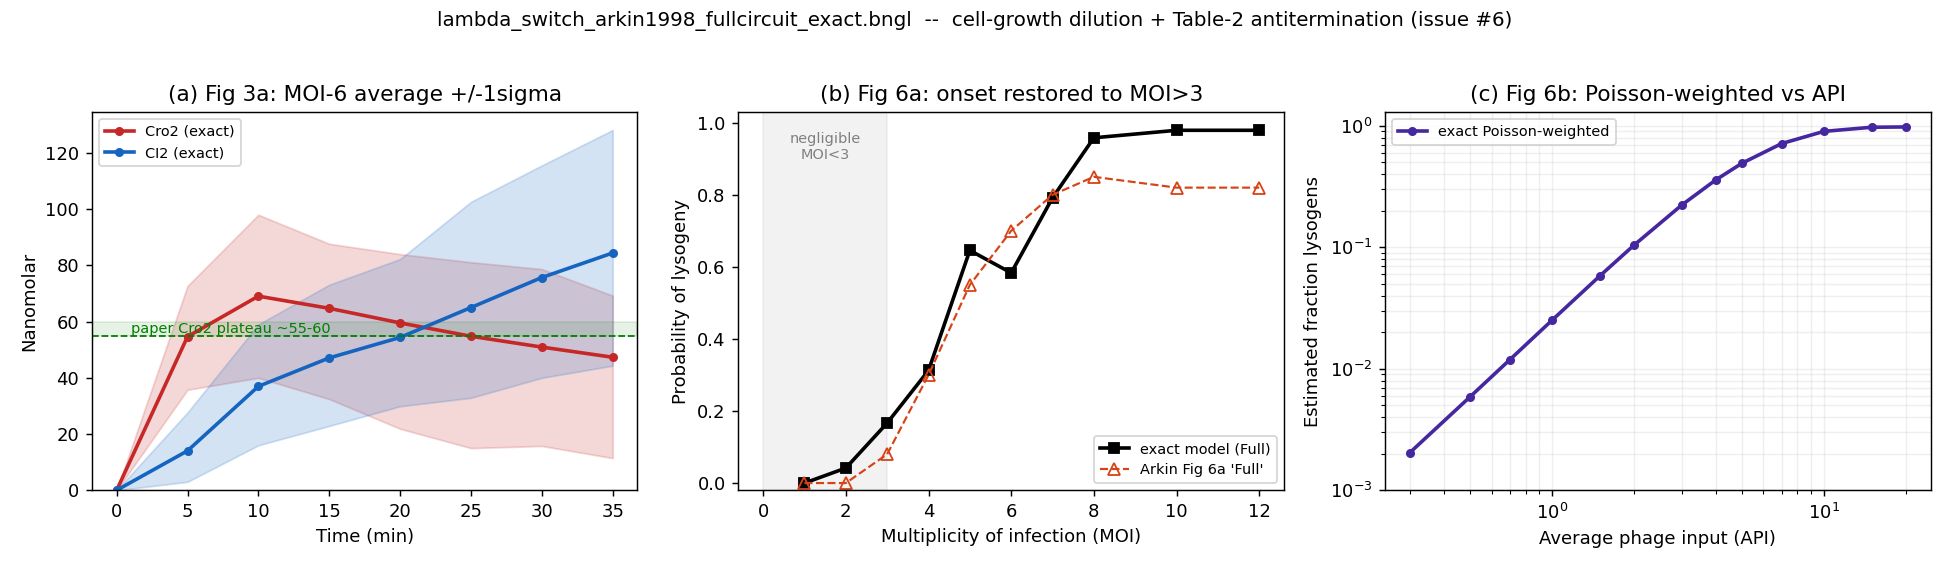
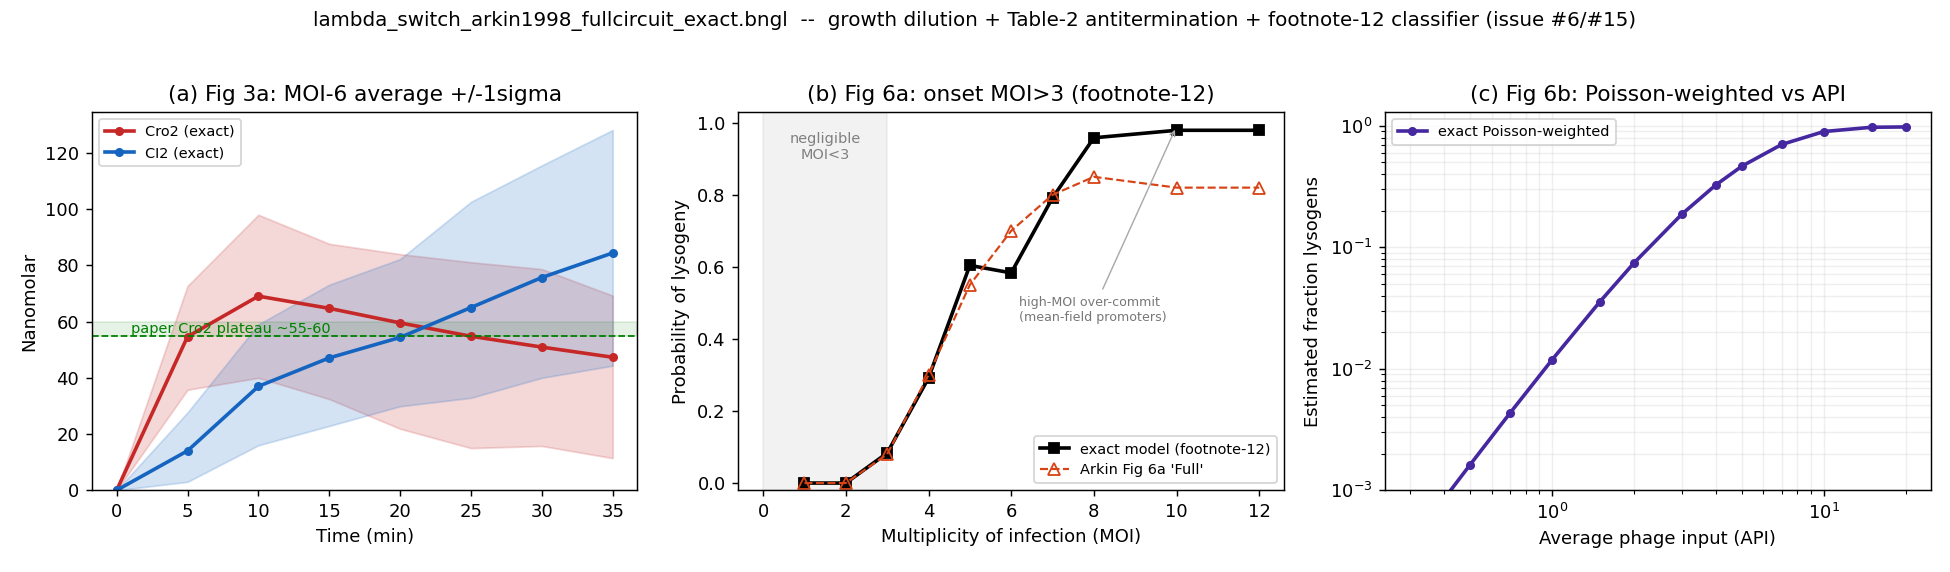
lambda_switch_arkin1998: implement the full footnote-12 lysogeny classifier
The Fig-6a low-MOI onset ran high (MOI 3 ~0.17 vs paper ~0.08). Diagnosis: the
driver used only condition (ii) of Arkin's footnote 12 ([CI2]>[Cro2] at 35 min).
Adding condition (i) -- P_RE was activated, i.e. the total open-complex rate
A_PRE()*MOI reached >= 1 open complex / 2 min over a contiguous 4-min window --
removes cells that reach CI2>Cro2 without a productive P_RE burst:

  MOI          3     4     5     6
  CI2>Cro2   0.21  0.29  0.60  0.71
  footnote12 0.08  0.29  0.60  0.58   <- lands the onset on the paper
  paper Full 0.08  0.30  0.55  0.70

This is a classifier fix in run_fullcircuit.py only -- the .bngl model is
unchanged (its header already described the full footnote-12). classify() now
takes the CII trajectory + MOI; the Fig-6 sweep samples 36 points (~1 min) so the
4-min activation window is resolved. Regenerated fullcircuit_exact_fig6.npz and
the verification figure; Fig-3a (classifier-independent) is unchanged.

The high-MOI tail still over-commits (~1.0 vs paper ~0.82): the network-free
A_X()*MOI initiation uses the mean-field Shea-Ackers rate and loses the per-genome
promoter-state bursting that lets some high-MOI cells escape to lysis -- a
structural limit of the reduced-order formulation (tracked in #15), and far from
the biologically critical decision boundary.

diff --git a/models/lambda_switch_arkin1998/run_fullcircuit.py b/models/lambda_switch_arkin1998/run_fullcircuit.py
@@ -15,12 +15,18 @@ NFsim + RuleMonkey). Run with a Python that has bngsim + numpy, e.g.
 Units: V_ref=1.66054e-15 L makes 1 molecule ~ 1 nM, so dimer COUNTS are the nM
 concentrations on Arkin's axes.
 
-Lysogeny classifier (Arkin footnote 12, p.[phone redacted]): a cell commits to lysogeny when
-free-CII production activated P_RE and [CI2] > [Cro2] at the end of the 35-min cell
-cycle. Operationally per run: LYSOGENIC <=> CI2_dimer > Cro2_dimer at t=35 min (the
-footnote states this end-state test is itself the indication that P_RE activation
-locked in the CI feedback loop). A stricter "regime" cross-check also requires CI2 to
-be in the lysogenic band (CI2 >= 50 nM).
+Lysogeny classifier (Arkin footnote 12, p.[phone redacted]): a cell commits to lysogeny iff
+BOTH (i) free-CII production activated P_RE -- operationally, the total P_RE open-complex
+rate A_PRE()*MOI reached >= 1 open complex / 2 min over a contiguous 4-min window -- AND
+(ii) [CI2] > [Cro2] at the end of the 35-min cell cycle. Both conditions are evaluated
+per seed (see classify()); condition (i) needs the free-CII trajectory at ~1-min
+resolution, so the Fig-6 sweep samples 36 points. Requiring (i) matters at low MOI,
+where it removes cells that reach CI2>Cro2 without a productive P_RE burst -- it lowers
+the Fig-6a onset (e.g. MOI 3 ~0.2 -> ~0.08, matching the paper) while leaving MOI>=4
+essentially unchanged. A stricter "regime" cross-check also requires CI2 >= 50 nM.
+NOTE: at high MOI the model still over-commits vs the paper (~1.0 vs ~0.82) because the
+network-free A_X()*MOI initiation uses the mean-field Shea-Ackers rate and loses the
+per-genome promoter-state bursting that lets some high-MOI cells escape to lysis.
 """
 import os
 import re
@@ -46,6 +52,39 @@ T_END = 2100.0                      # 35-min cell cycle
 # observables carried by the model (see the .bngl observables block)
 TRAJ = ["CI2_dimer", "Cro2_dimer", "Obs_CII", "CII_total", "CIII_tot", "Obs_N",
         "CImon", "Crmon"]
+
+# --- Arkin footnote-12 lysogeny classifier ------------------------------------------
+# A cell is committed to lysogeny iff (i) free-CII production ACTIVATED P_RE -- defined
+# as the total P_RE open-complex rate A_PRE()*MOI reaching >= 1 open complex / 2 min over
+# a contiguous 4-min window -- AND (ii) [CI2] > [Cro2] at the end of the 35-min cycle.
+# A_PRE() is the Table-1 P_RE partition function (same expression as in the .bngl); the
+# total rate over the cell's MOI genome copies is A_PRE()*MOI.
+_RT = 1.9872e-3 * 310.15
+_M2M = 1e-9                              # 1 molecule ~ 1 nM at V_ref -> M/molecule
+_RNAP_M = 30 * _M2M                      # buffered free RNAP = 30 nM
+_PRE_RATE = 1.0 / 120.0                  # 1 open complex / 2 min, in 1/s
+_PRE_WIN_MIN = 4.0                       # contiguous activation window (min)
+
+
+def _A_PRE(cii):
+    """P_RE open-complex rate (1/s) vs free-CII (nM), Table-1 P_RE partition function."""
+    ci = np.asarray(cii) * _M2M
+    w2 = np.exp(9.9 / _RT) * _RNAP_M     # exp(-dG_RE_2/RT), dG_RE_2 = -9.9
+    w3 = np.exp(9.7 / _RT) * ci          # dG_RE_3 = -9.7
+    w4 = np.exp(21.5 / _RT) * ci * _RNAP_M  # dG_RE_4 = -21.5
+    return (w2 * 4e-5 + w4 * 0.015) / (1 + w2 + w3 + w4)
+
+
+def _pre_activated(cii_traj, tvec, moi):
+    """footnote-12 (i): does total P_RE activation A_PRE()*MOI stay >= 1 OC / 2 min over
+    some contiguous 4-min window of the trajectory?"""
+    apre = _A_PRE(cii_traj) * moi
+    dt = (tvec[1] - tvec[0]) / 60.0 if len(tvec) > 1 else _PRE_WIN_MIN
+    w = max(1, int(round(_PRE_WIN_MIN / dt)))
+    if len(apre) < w:
+        return apre.mean() >= _PRE_RATE
+    cs = np.concatenate([[0.0], np.cumsum(apre)])
+    return bool(((cs[w:] - cs[:-w]) / w >= _PRE_RATE).any())
 
 
 def build_xml(moi, tag=None):
@@ -85,12 +124,19 @@ def ensemble(xml, method, n_seeds, n_points=8, seed0=30000):
     return tvec, {o: np.vstack(v) for o, v in stacks.items()}
 
 
-def classify(stacks):
-    """Footnote-12 per-seed lysogeny classification from final-time (t=35min) counts."""
+def classify(stacks, tvec, moi):
+    """Arkin footnote-12 per-seed lysogeny classification: LYSOGENIC iff P_RE activated
+    (i) AND [CI2]>[Cro2] at t=35 min (ii). Needs the CII trajectory (for (i)) at fine
+    time resolution and the MOI (total P_RE rate = A_PRE()*MOI). Also returns the
+    end-state-only fraction (lyso_end) for reference."""
     ci2 = stacks["CI2_dimer"][:, -1]
     cro2 = stacks["Cro2_dimer"][:, -1]
-    lyso = ci2 > cro2
-    return {"lyso": lyso, "regime": lyso & (ci2 >= 50.0), "ci2": ci2, "cro2": cro2}
+    end_switch = ci2 > cro2
+    cii = stacks["Obs_CII"]
+    pre = np.array([_pre_activated(cii[i], tvec, moi) for i in range(cii.shape[0])])
+    lyso = end_switch & pre
+    return {"lyso": lyso, "lyso_end": end_switch, "regime": lyso & (ci2 >= 50.0),
+            "ci2": ci2, "cro2": cro2}
 
 
 # --------------------------------------------------------------------- Fig 3 (MOI 6)
@@ -105,9 +151,10 @@ def fig3(n_seeds=60, method="rm", moi=6):
         print(f"  {lab} avg :" + "".join(f"{v:7.1f}" for v in st[o].mean(0)))
         print(f"  {lab} 16pc:" + "".join(f"{v:7.1f}" for v in np.percentile(st[o], 16, 0)))
         print(f"  {lab} 84pc:" + "".join(f"{v:7.1f}" for v in np.percentile(st[o], 84, 0)))
-    c = classify(st)
-    print(f"  => lysogenic fraction (CI2>Cro2 @35min): {c['lyso'].mean():.2f}  "
-          f"(regime CI2>=50: {c['regime'].mean():.2f}) of {n_seeds}")
+    c = classify(st, tvec, moi)
+    print(f"  => lysogenic fraction (footnote-12): {c['lyso'].mean():.2f}  "
+          f"(CI2>Cro2 only: {c['lyso_end'].mean():.2f}; "
+          f"regime CI2>=50: {c['regime'].mean():.2f}) of {n_seeds}")
     print("  paper Fig 3a: Cro2 avg ~55-60 nM plateau, CI2 lower with a broad band.")
     return tvec, st
 
@@ -116,8 +163,9 @@ def fig3(n_seeds=60, method="rm", moi=6):
 def lyso_fraction(moi, n_seeds, method="rm"):
     xml = build_xml(moi)
     t0 = time.time()
-    _, st = ensemble(xml, method, n_seeds, n_points=2, seed0=20000)
-    c = classify(st)
+    # ~1-min sampling so the footnote-12 4-min activation window is resolved
+    tvec, st = ensemble(xml, method, n_seeds, n_points=36, seed0=20000)
+    c = classify(st, tvec, moi)
     return c["lyso"].mean(), c["regime"].mean(), c["ci2"].mean(), c["cro2"].mean(), time.time() - t0
 
 